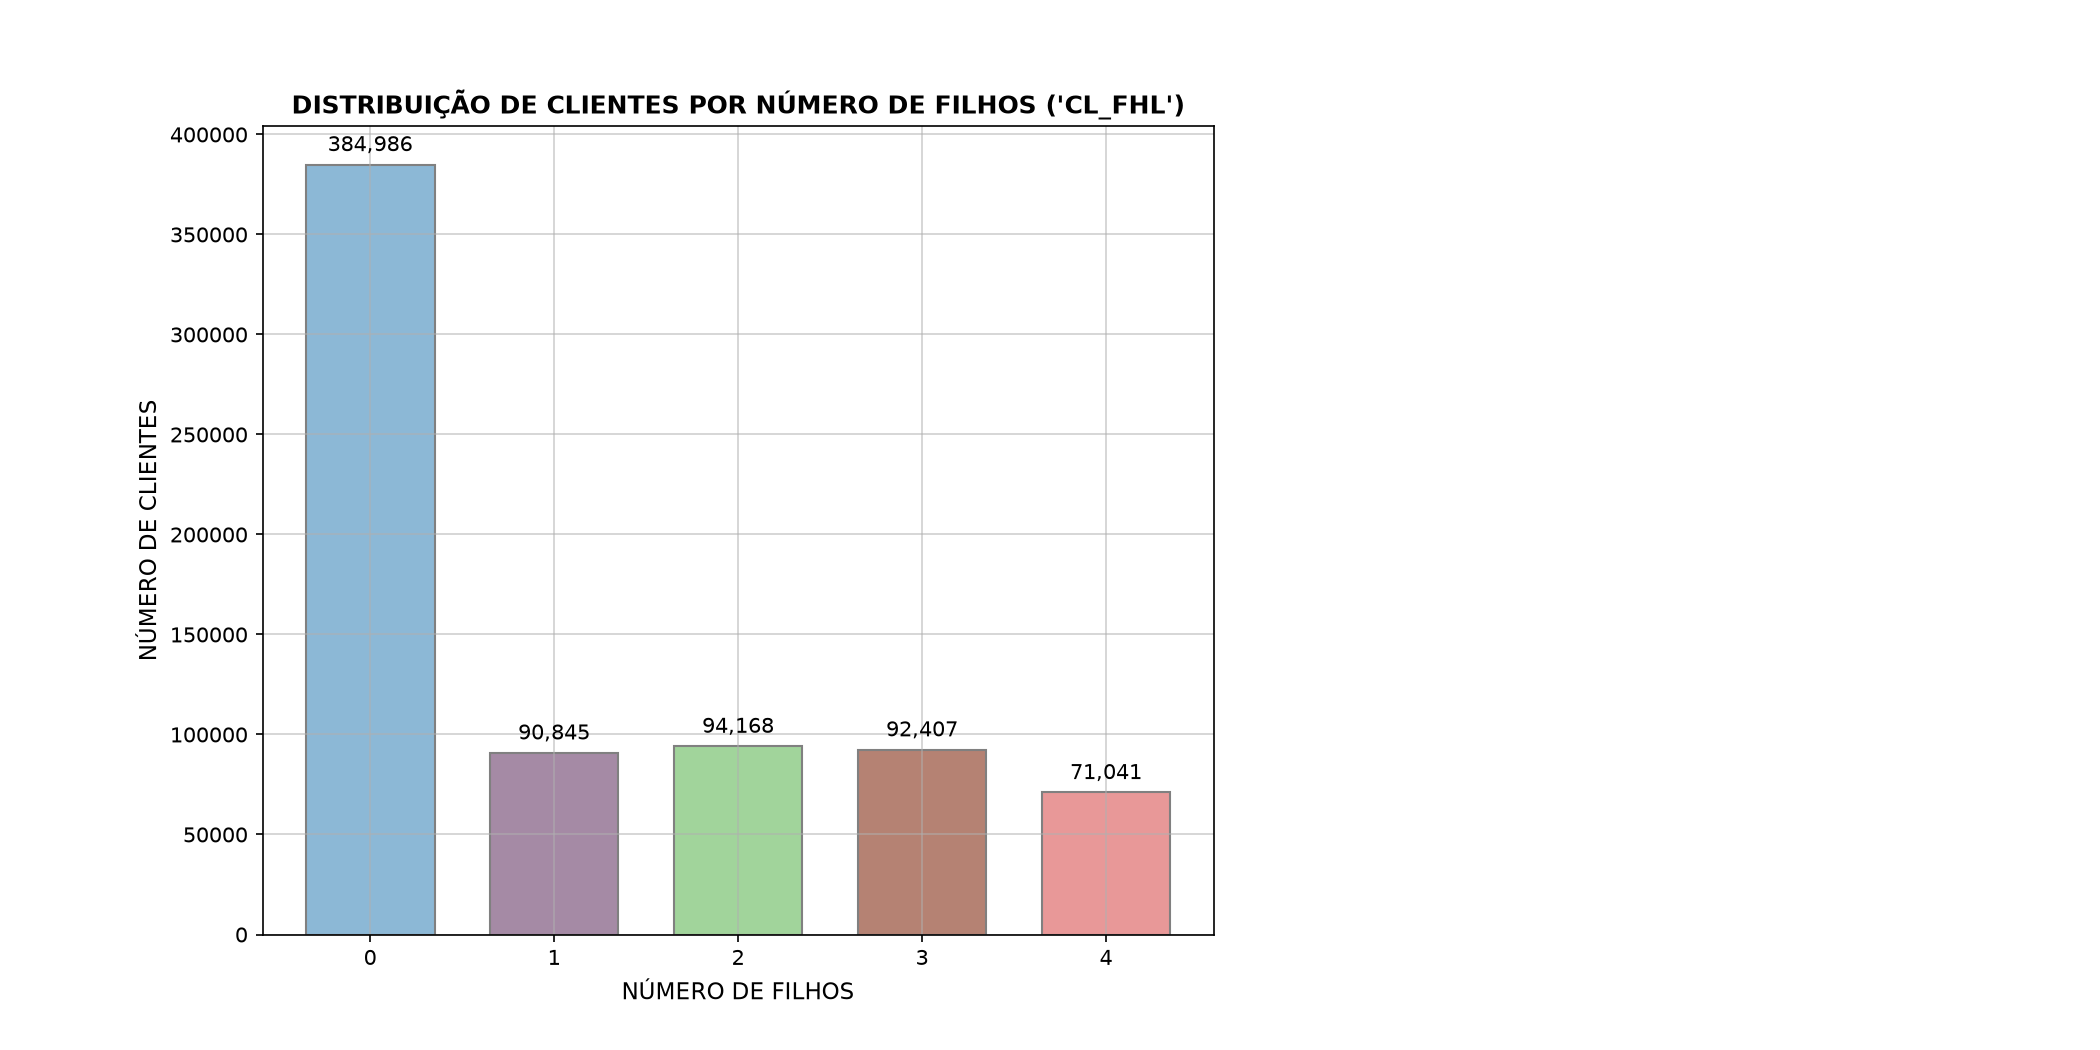
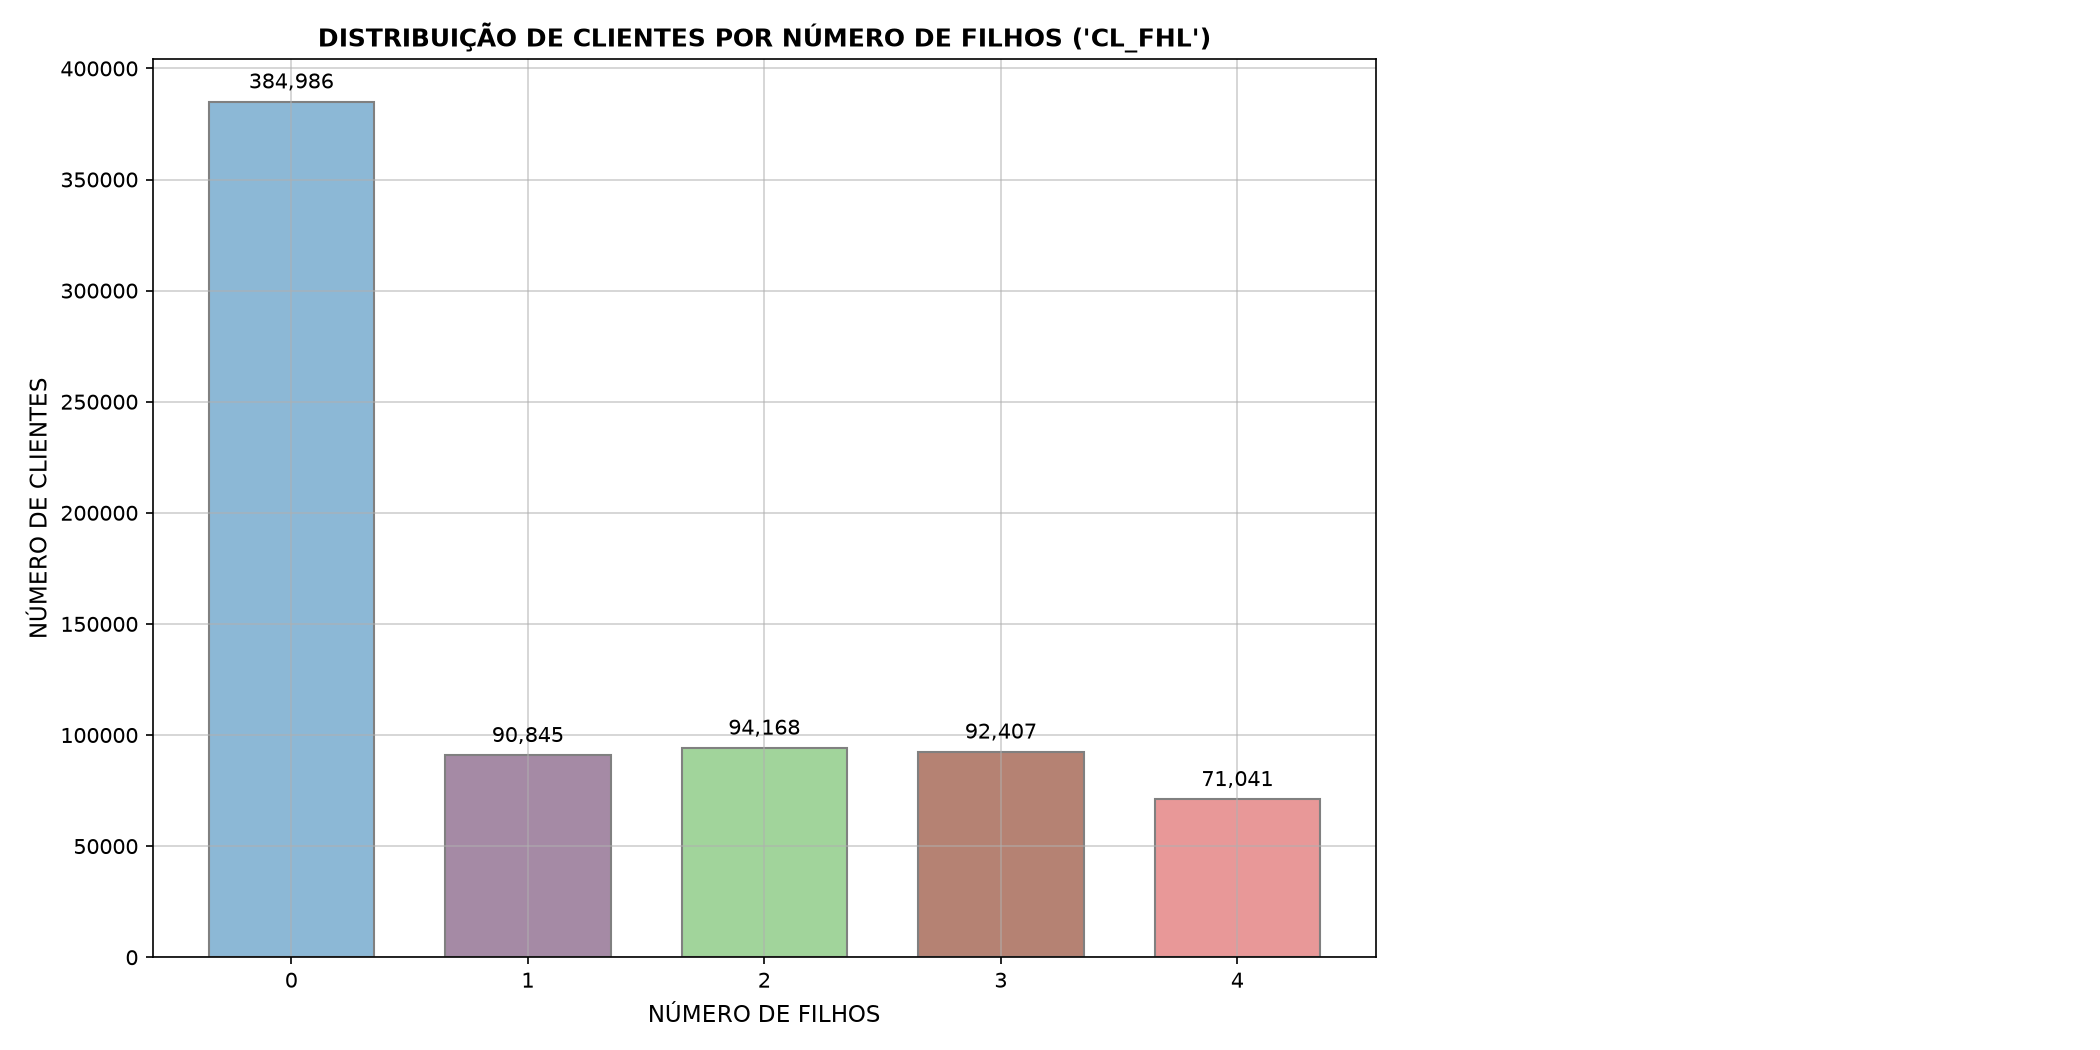
Teste de scripts

diff --git a/Miniprojeto_ClaudiaPedroso_T5/Miniprojeto_ClaudiaPedroso_T5.py b/Miniprojeto_ClaudiaPedroso_T5/Miniprojeto_ClaudiaPedroso_T5.py
@@ -4,8 +4,8 @@
 import numpy as np
 import pandas as pd
 import re
+import matplotlib.gridspec as gridspec
 import matplotlib.pyplot as plt
-import matplolib.grid as gridspec
 from datetime import datetime
 
 #1. Importando o arquivo BaseVarejo.csv
@@ -34,8 +34,8 @@ print(f"Colunas vazias ('Unnamed') eliminadas: {len(df_limpo.columns) - len(df_v
 
 
 #2. Mapeando valores nulos/ausentes
-print(f"Número de valores nulos/ausentes por coluna:\n{nulos}")
 nulos = df_limpo.isnull().sum() 
+print(f"Número de valores nulos/ausentes por coluna:\n{nulos}")
 
 # 3. Funções com Expressões Regulares para Sanitarização
 def limpar_texto_regex(texto):
@@ -127,7 +127,7 @@ print(df_stats.to_string(index=False))
 
 
 #2. Criação da Faixa Familiar (Perfil de Consumo) com base na quantidade de filhos
-df_limpo['PERFIL_Familiar'] = df_limpo['CL_FHL'].apply(
+df_limpo['PERFIL_FAMILIA'] = df_limpo['CL_FHL'].apply(
     lambda x: 'Sem Filhos' if x == 0 else ('Com Filhos' if x > 0 else 'Não Informado') 
 )
 
@@ -135,16 +135,14 @@ df_limpo['PERFIL_Familiar'] = df_limpo['CL_FHL'].apply(
 if 'RP_CAT' in df_limpo.columns:
     consumo_perfil = pd.crosstab(
       df_limpo['PR_CAT'],
-      df_limpo['PERFIL_Familiar'],
+      df_limpo['PERFIL_FAMILIA'],
       normalize='columns')* 100
     print('\n % de Consumo por Categoria e Perfil Familiar:')
     print(consumo_perfil.round(2))
     
 # Agrupamento por gênero: Total de Compras e Média de Filhos por Gênero (Groupby)
 if "CL_GENERO" in df_limpo.columns and "CO_ID" in df_limpo.columns:
-    agrup_genero = (
-      df_limpo.groupby("CL_GENERO")
-        .agg(
+    agrup_genero = df_limpo.groupby("CL_GENERO").agg(
         Total_Transacoes=("CO_ID", "count"),
         Media_Filhos=("CL_FHL", "mean"),
     ).reset_index()
@@ -193,11 +191,11 @@ fig.savefig("distribuicao_clientes_filhos.png", dpi=150)
 
 
 # Gráfico 2: Top Categorias por Perfil Familiar
-if 'PR_CAT' in df_limpo.columns
+if 'PR_CAT' in df_limpo.columns:
     top_cats = df_limpo['PR_CAT'].value_counts().head(6).index
     df_top_cats = df_limpo[df_limpo['PR_CAT'].isin(top_cats)]
     
-    table_plot = df.crosstab(df_top_cats['PR_CAT'], df_top_cats['PERFIL_FAMILIAR'])
+    tabela_plot = pd.crosstab(df_top_cats['PR_CAT'], df_top_cats['PERFIL_FAMILIA'])
     
     fig2, ax2 = plt.subplots(figsize=(10, 5), dpi=100)
     tabela_plot.plot(kind='bar', ax=ax2, colormap='viridis', edgecolor='black', width=0.7)
@@ -244,10 +242,10 @@ ax3.set_title("Comparativo: Média vs Mediana (Coluna 'CL_FHL')",
 )
 ax3.set_ylabel('Valor', fontsize=11)
 ax3.set_ylim(0, max(valores) * 1.3)  # Espaço para o rótulo
-ax.grid(axis='y', linestyle='--', alpha=0.7)
+ax3.grid(axis='y', linestyle='--', alpha=0.7)
 
 # Salvar na pasta 'Graficos'
-fig.savefig("distribuicao_qtd_filhos.png", dpi=150)
+fig3.savefig("comparativo_media_mediana.png", dpi=150)
 
 
 plt.show()
